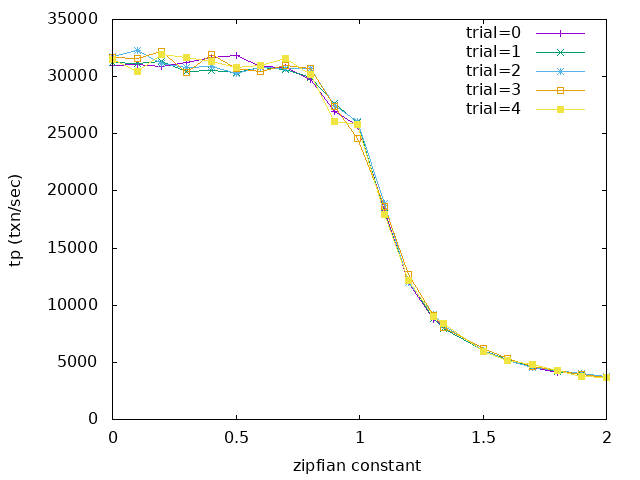
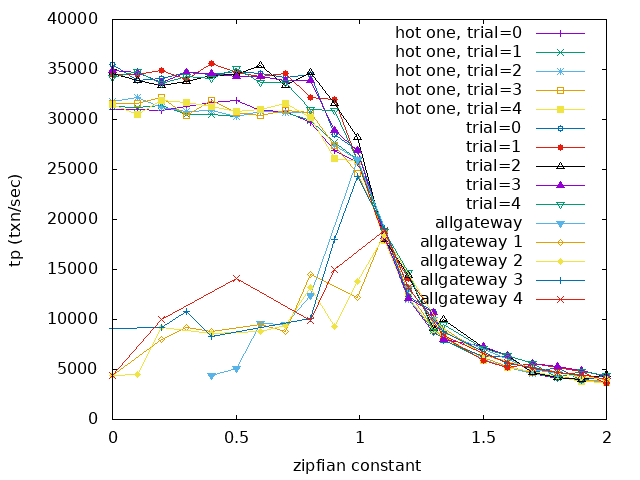
strange

diff --git a/experiments/lib.py b/experiments/lib.py
@@ -273,7 +273,7 @@ def warmup_cluster(config):
 
 	# save_params(config, out_dir)
 
-	nodes = config["warm_nodes"]
+	nodes = config["warm_nodes"] + config["hot_nodes"]
 	# out_dir = config["out_dir"]
 	b = config["benchmark"]
 
@@ -302,9 +302,9 @@ def warmup_cluster(config):
 	ip = nodes[0]["ip"]
 	cmd = ('echo "'
 			'alter range default configure zone using num_replicas = 1;'
-			'alter table kv partition by range(k) (partition hot values from (minvalue) to (1), partition warm values from (1) to (maxvalue));'
-			"alter partition hot of table kv configure zone using constraints='\\''[+region=newyork]'\\'';"
-			"alter partition warm of table kv configure zone using constraints='\\''[-region=newyork]'\\'';"
+			# 'alter table kv partition by range(k) (partition hot values from (minvalue) to (1), partition warm values from (1) to (maxvalue));'
+			# "alter partition hot of table kv configure zone using constraints='\\''[+region=newyork]'\\'';"
+			# "alter partition warm of table kv configure zone using constraints='\\''[-region=newyork]'\\'';"
 			'" | {0} sql --insecure --database=kv '
 			'--url="postgresql://root@{1}?sslmode=disable"').format(EXE, ip)
 	
@@ -467,7 +467,7 @@ def gnuplot(config, skews):
 	print(filename)
 	gnuplot_written_data(filename)
 
-	driver_node = "192.168.1.19" # usually
+	driver_node = "192.168.1.1" # usually
 	csv_file = os.path.basename(os.path.dirname(out_dir)) + ".csv"
 	cmd = "mv {0} /usr/local/temp/go/src/github.com/cockroachdb/cockroach/gnuplot/{1}".format(filename, csv_file)
 	call_remote(driver_node, cmd, "i like to move it move it")
@@ -479,7 +479,7 @@ def run_bench(config):
 
     save_params(config, out_dir)
 
-    nodes = config["warm_nodes"]
+    nodes = config["warm_nodes"] + config["hot_nodes"]
     out_dir = config["out_dir"]
     b = config["benchmark"]
 
